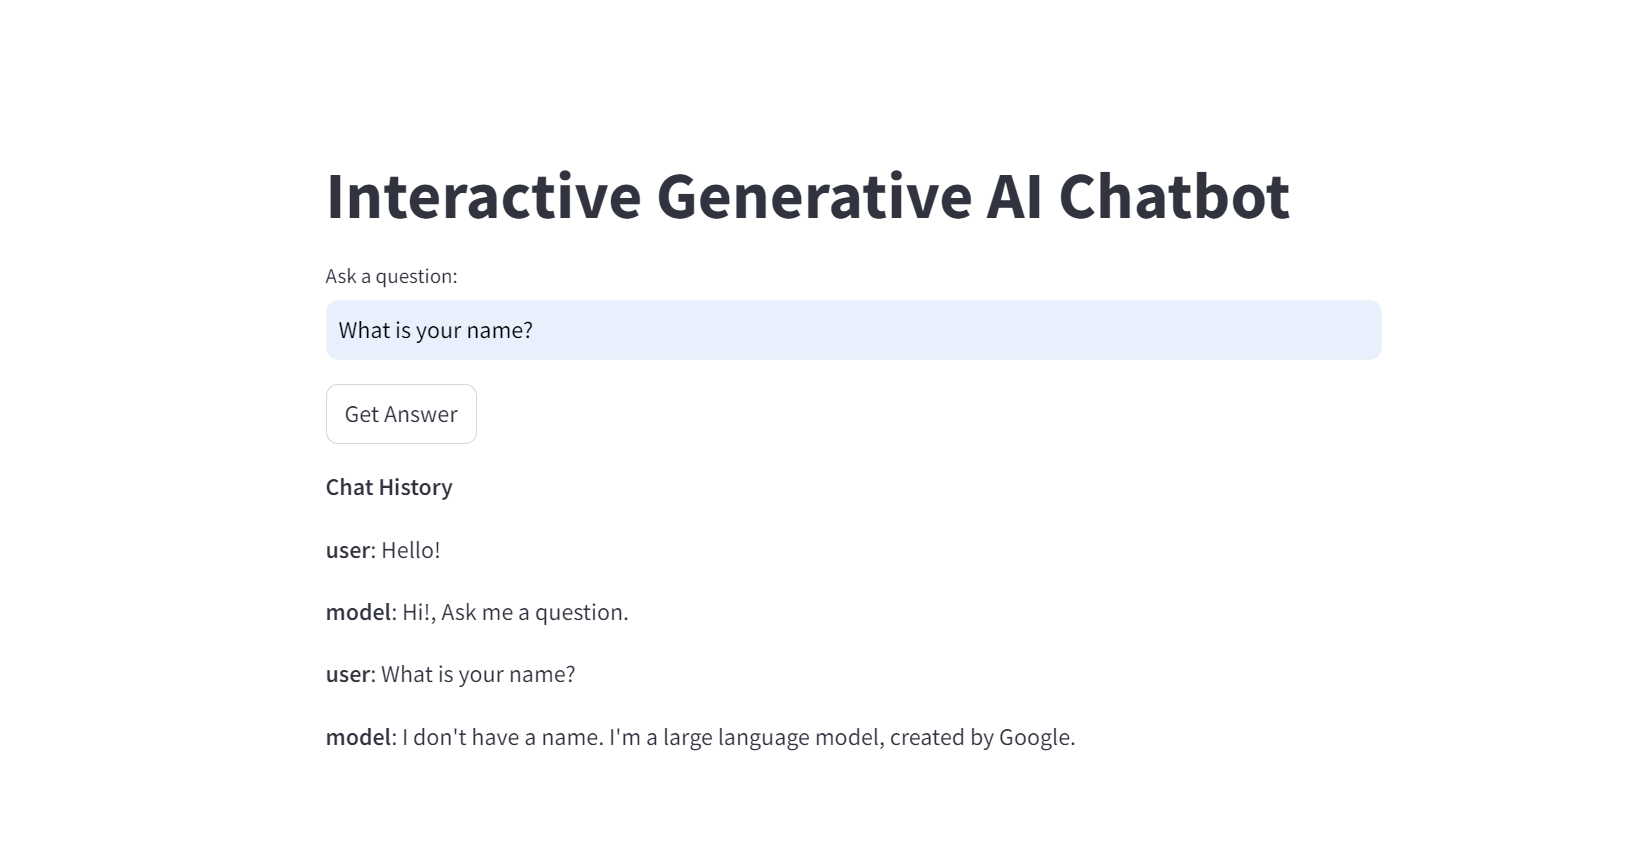
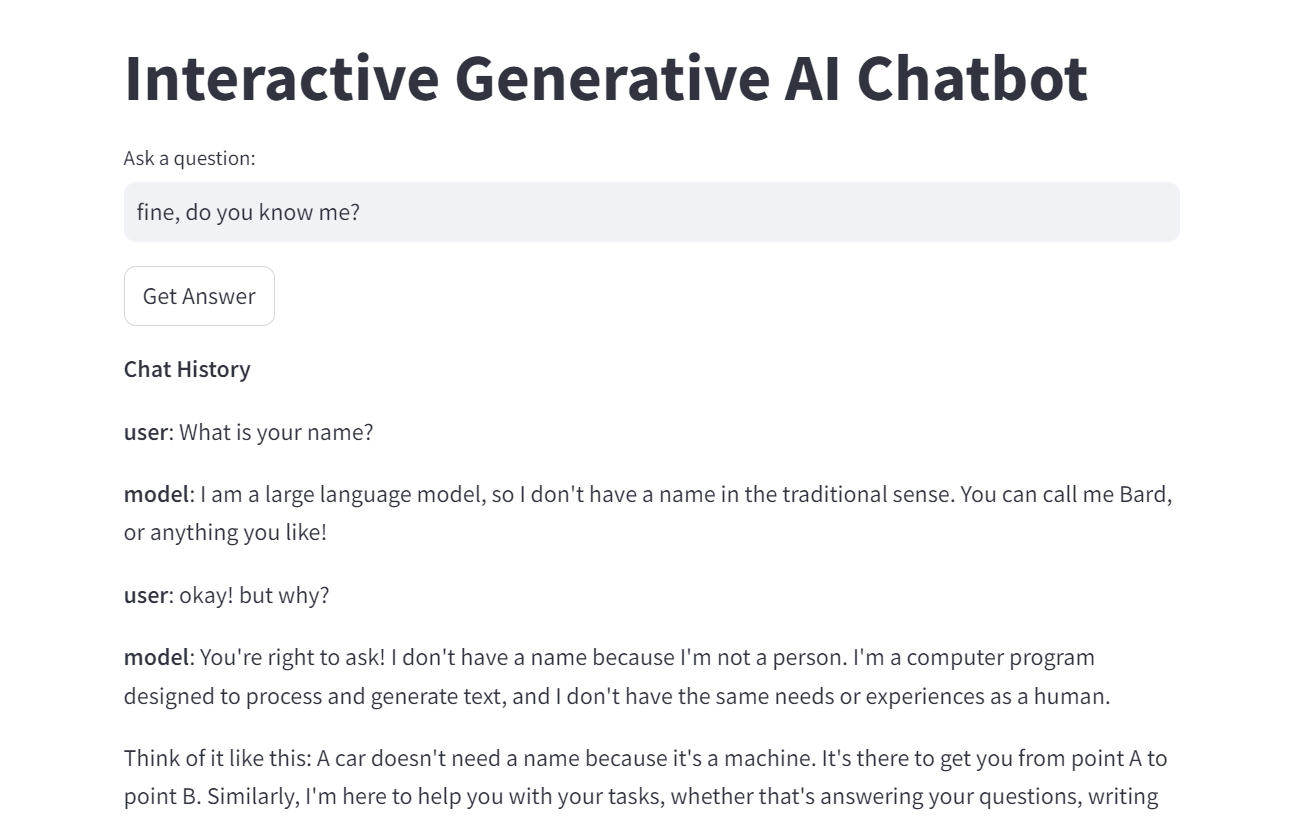
improvements

diff --git a/streamlit_app.py b/streamlit_app.py
@@ -12,12 +12,8 @@ st.title("Interactive Generative AI Chatbot")
 question = st.text_input("Ask a question:")
 
 if st.button("Get Answer") and question:
-    st.session_state.chat_history.append([
-        {"role": "user", "parts": "Hello!"},
-        {"role": "model", "parts": "Hi!, Ask me a question."},
-    ]
-    )
-    body = {"question": question, "history": st.session_state.chat_history[-1]}
+    chat_history = st.session_state.chat_history[-1] if st.session_state.chat_history != [] else []
+    body = {"question": question, "history": chat_history}
     response = requests.post(API_URL, json=body)
 
     if response.status_code == 200:
